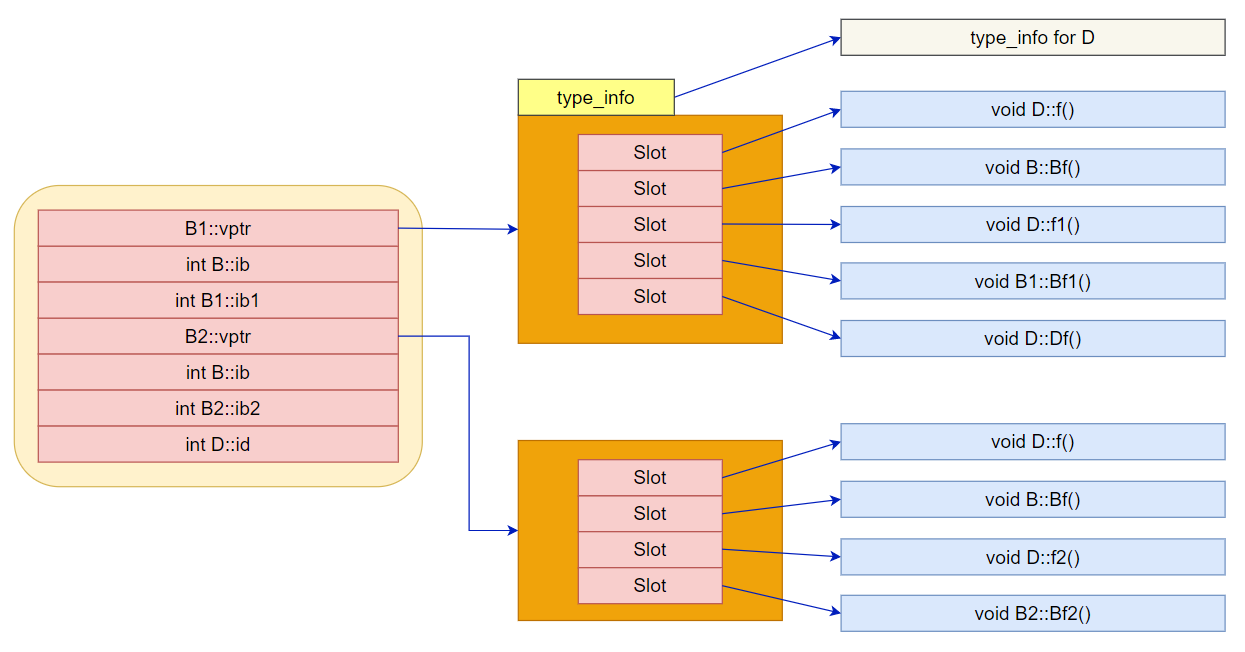
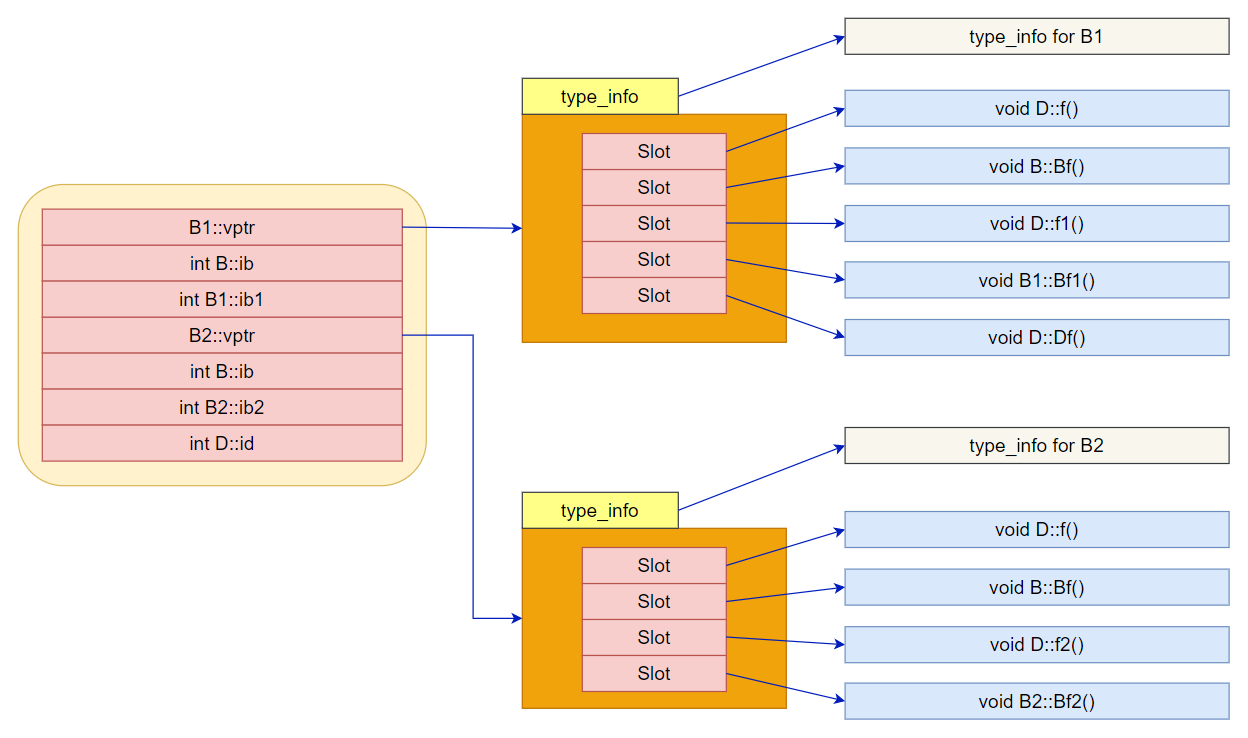
update

diff --git a/impl/cpp/cpp 基础/对象模型.md b/impl/cpp/cpp 基础/对象模型.md
@@ -50,7 +50,7 @@ private:
 - 降低了对象的slot，也就是意味着提高了访问成员的效率，直接存取变量提高了效率和内存紧凑方便寻址
 - 成员变量一级寻址和成员函数二级寻址执行效率仍然很低，继承越多，效率下降越明显
 
-# 非继承下的 C++ 对象模型
+# 无继承
 
 在此模型下，nonstatic 数据成员被置于每一个类对象中，而static数据成员被置于类对象之外。static与nonstatic函数也都放在类对象之外，而对于virtual 函数，则通过虚函数表+虚指针来支持，具体如下：
 
@@ -112,7 +112,7 @@ void test_base()
 - 虚表指针的下一个位置为 nonstatic 数据成员 baseI
 - static成员函数的地址段位与虚表指针、baseI 的地址段位不同
 
-# 继承下的 C++ 对象模型
+# 普通继承
 
 ## 单继承
 
@@ -264,11 +264,18 @@ void test_multi_inherit()
 	Fun fun2 = (Fun)*((int *)*((int *)(&d)) + 2);
 	fun2();
 	std::cout << "\t地址:\t" << *((int *)*((int *)(&d)) + 2) << std::endl;
-	std::cout << "\t[结束]地址:\t" << *((int *)*((int *)(&d)) + 3) << std::endl;
+	std::cout << "[结束]地址:\t" << *((int *)*((int *)(&d)) + 3) << std::endl;
 
 	std::cout << "Base::baseI=" << *(int*)((int *)(&d) + 1);
 	std::cout << "\t地址：" << (int *)(&d) + 1;
 	std::cout << std::endl;
+
+	std::cout << "type_info 信息:" << std::endl;
+	RTTICompleteObjectLocator str2 = *((RTTICompleteObjectLocator*)*((int*)(((int*)*((int *)(&d) + 2)) - 1)));
+	std::string classname2(str2.pTypeDescriptor->name);
+	classname2 = classname2.substr(4, classname2.find("@@") - 4);
+	std::cout << "根据type_info信息输出类名:" << classname2 << std::endl;
+			
 
 	std::cout << "Base_2::vptr";
 	std::cout << "\t地址：" << (int *)(&d) + 2 << std::endl;
@@ -277,7 +284,7 @@ void test_multi_inherit()
 	Fun fun3 = (Fun)*((int*)(((int*)*((int *)(&d) + 2)) + 1));
 	fun3();
 	std::cout << "\t地址:\t" << *(int*)(((int*)*((int *)(&d) + 2)) + 1) << std::endl;
-	std::cout << "\t[结束]地址:\t" << *(int*)(((int*)*((int *)(&d) + 2)) + 2) << std::endl;
+	std::cout << "[结束]地址:\t" << *(int*)(((int*)*((int *)(&d) + 2)) + 2) << std::endl;
 
 	std::cout << "Base_2::base2I=" << *(int*)((int *)(&d) + 3);
 	std::cout << "\t地址：" << (int *)(&d) + 3;
@@ -463,6 +470,18 @@ d.ib =1 ;               //二义性错误,调用的是B1的ib还是B2的ib？
 d.B1::ib = 1;           //正确 
 d.B2::ib = 1;           //正确
 ```
+
+# 虚继承
+
+虚继承解决了菱形继承中派生类拥有多个间接父类实例的情况。虚继承的派生类的内存布局与普通继承很多不同，主要体现在：
+
+- 虚继承的子类，如果本身定义了新的虚函数，则编译器为其生成一个虚函数表指针（vptr）以及一张虚函数表。该 vptr 位于对象内存最前面。而非虚继承：直接扩展父类虚函数表
+- 虚继承的子类也单独保留了父类的 vptr 与虚函数表。这部分内容接与子类内容以一个四字节的 0x00 来分界
+- 虚继承的子类对象中，含有四字节的虚表指针偏移值
+
+在C++对象模型中，虚继承而来的子类会生成一个隐藏的虚基类指针（vbptr），在 Microsoft Visual C++ 中，虚基类表指针总是在虚函数表指针之后，因而，对某个类实例来说，如果它有虚基类指针，那么虚基类指针可能在实例的 0 字节偏移处（该类没有 vptr 时，vbptr 就处于类实例内存布局的最前面），也可能在类实例的 4 字节偏移处。
+
+一个类的虚基类指针指向的虚基类表，与虚函数表一样，虚基类表也由多个条目组成，条目中存放的是偏移值。第一个条目存放虚基类表指针（vbptr）所在地址到该类内存首地址的偏移值，由第一段的分析我们知道，这个偏移值为 0（类没有vptr）或者 -4（类有虚函数，此时有vptr）。
 
 
 
